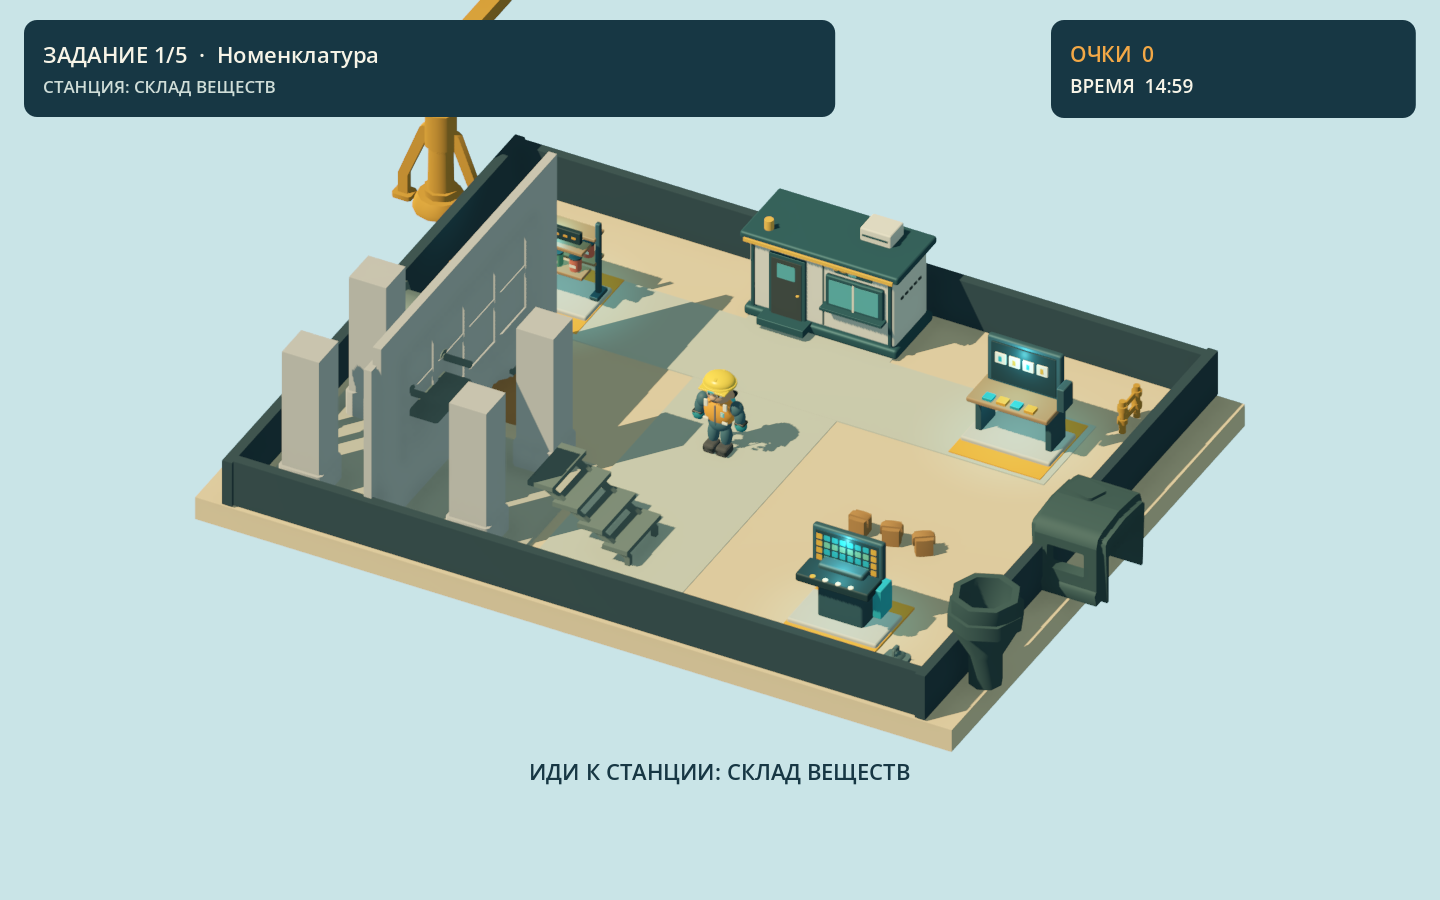
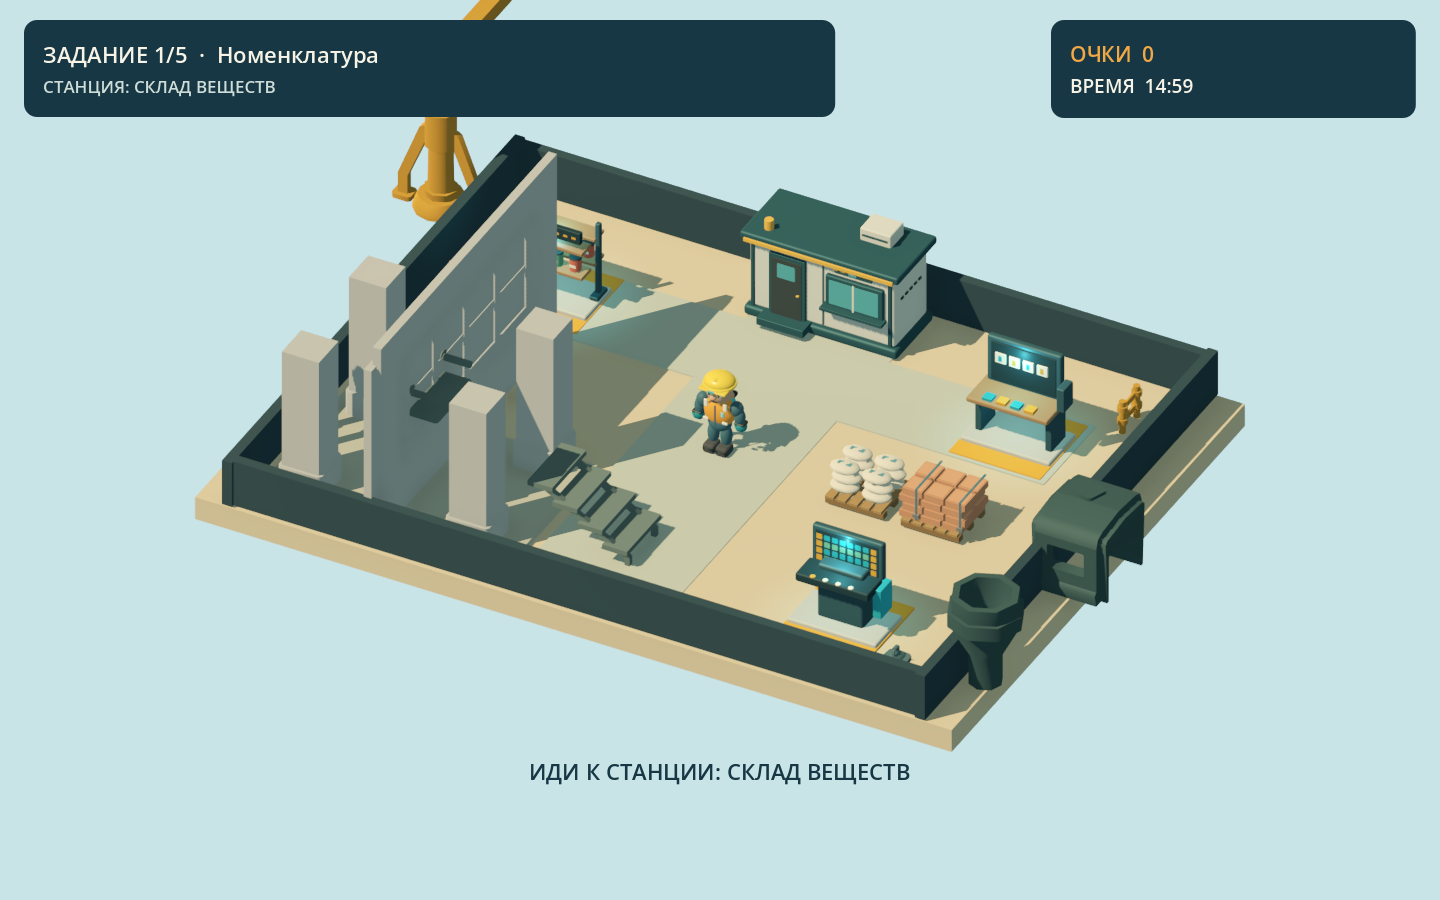
art: add Blender material storage cluster and route validation

Changed region(s): [[0.5625, 0.4978, 0.7188, 0.6222], [0.3438, 0.4044, 0.375, 0.4667], [0.2812, 0.3111, 0.3125, 0.3422]]

diff --git a/tools/blender/build_material_cache.py b/tools/blender/build_material_cache.py
@@ -1,0 +1,122 @@
+"""Create a compact palletized cement-and-brick storage assembly."""
+
+from pathlib import Path
+
+import bpy
+
+
+ROOT = Path(__file__).resolve().parents[2]
+OUTPUT = ROOT / "assets/models/environment"
+SOURCE = ROOT / "tools/blender/source"
+OUTPUT.mkdir(parents=True, exist_ok=True)
+SOURCE.mkdir(parents=True, exist_ok=True)
+
+bpy.ops.object.select_all(action="SELECT")
+bpy.ops.object.delete(use_global=False)
+
+
+def material(name, color, roughness=0.7, metallic=0.0):
+    result = bpy.data.materials.new(name)
+    result.diffuse_color = (*color, 1.0)
+    result.use_nodes = True
+    shader = result.node_tree.nodes.get("Principled BSDF")
+    shader.inputs["Base Color"].default_value = (*color, 1.0)
+    shader.inputs["Roughness"].default_value = roughness
+    shader.inputs["Metallic"].default_value = metallic
+    return result
+
+
+timber = material("sealed pallet timber", (0.42, 0.27, 0.13))
+timber_edge = material("pallet edge grain", (0.28, 0.18, 0.09))
+cement = material("cement paper sacks", (0.73, 0.72, 0.63), 0.88)
+cement_label = material("cement label ink", (0.11, 0.34, 0.39))
+brick = material("warm construction brick", (0.61, 0.29, 0.18), 0.82)
+brick_top = material("sunlit brick face", (0.72, 0.36, 0.22), 0.82)
+strap = material("blue retaining strap", (0.08, 0.28, 0.36), 0.42, 0.2)
+steel = material("galvanized tie hardware", (0.40, 0.48, 0.48), 0.38, 0.55)
+
+
+def box(name, location, dimensions, surface, bevel=0.02):
+    bpy.ops.mesh.primitive_cube_add(size=1, location=location)
+    obj = bpy.context.object
+    obj.name = name
+    obj.dimensions = dimensions
+    bpy.ops.object.transform_apply(location=False, rotation=False, scale=True)
+    obj.data.materials.append(surface)
+    if bevel:
+        modifier = obj.modifiers.new("rounded edge", "BEVEL")
+        modifier.width = min(bevel, min(dimensions) * 0.3)
+        modifier.segments = 3
+        obj.modifiers.new("weighted normals", "WEIGHTED_NORMAL")
+    return obj
+
+
+def bag(name, location, dimensions):
+    bpy.ops.mesh.primitive_uv_sphere_add(segments=20, ring_count=10, location=location)
+    obj = bpy.context.object
+    obj.name = name
+    obj.scale = (dimensions[0] / 2, dimensions[1] / 2, dimensions[2] / 2)
+    bpy.ops.object.transform_apply(location=False, rotation=False, scale=True)
+    obj.data.materials.append(cement)
+    for face in obj.data.polygons:
+        face.use_smooth = True
+    return obj
+
+
+def pallet(name, center_x):
+    for y in (-0.53, 0.0, 0.53):
+        box(name + " runner", (center_x, y, 0.12), (1.48, 0.20, 0.17), timber_edge, 0.025)
+    for x in (-0.6, -0.3, 0.0, 0.3, 0.6):
+        box(name + " top slat", (center_x + x, 0, 0.24), (0.23, 1.37, 0.09), timber, 0.018)
+
+
+pallet("cement pallet", -0.95)
+pallet("brick pallet", 0.95)
+
+# Three uneven courses of bags give a soft, authored silhouette.
+for layer, z in enumerate((0.41, 0.66, 0.91)):
+    for x in (-1.35, -0.55):
+        for y in (-0.30, 0.30):
+            offset = 0.045 if layer == 1 else 0.0
+            bag("sealed cement sack", (x + offset, y, z), (0.72, 0.52, 0.24))
+            if layer == 2:
+                box("printed cement band", (x + offset, y, z + 0.105), (0.35, 0.12, 0.012), cement_label, 0.004)
+
+# Bonded courses of bricks on the second pallet, with visible offset joints.
+for layer in range(4):
+    for column in range(3):
+        for row in range(2):
+            x = 0.39 + column * 0.54 + (0.08 if layer % 2 else 0.0)
+            y = -0.30 + row * 0.60
+            z = 0.34 + layer * 0.21
+            box("brick body", (x, y, z), (0.50, 0.53, 0.18), brick, 0.015)
+            box("brick top face", (x, y, z + 0.092), (0.43, 0.44, 0.014), brick_top, 0.005)
+
+# Two steel ratchet straps contain the brick load and add a strong color accent.
+for x in (0.60, 1.70):
+    box("vertical cargo strap", (x, -0.61, 0.72), (0.052, 0.018, 0.84), strap, 0.005)
+    box("strap over top", (x, 0, 1.15), (0.052, 1.23, 0.018), strap, 0.005)
+    box("ratchet buckle", (x, -0.635, 0.43), (0.16, 0.04, 0.09), steel, 0.008)
+
+for obj in bpy.data.objects:
+    if obj.type == "MESH":
+        for modifier in list(obj.modifiers):
+            bpy.context.view_layer.objects.active = obj
+            bpy.ops.object.modifier_apply(modifier=modifier.name)
+
+bpy.ops.wm.save_as_mainfile(filepath=str(SOURCE / "material_cache.blend"))
+
+# Preserve editable pieces in the source file and export one mesh per material.
+for surface in (timber, timber_edge, cement, cement_label, brick, brick_top, strap, steel):
+    pieces = [
+        obj for obj in bpy.data.objects
+        if obj.type == "MESH" and obj.data.materials and obj.data.materials[0] == surface
+    ]
+    bpy.ops.object.select_all(action="DESELECT")
+    for piece in pieces:
+        piece.select_set(True)
+    bpy.context.view_layer.objects.active = pieces[0]
+    bpy.ops.object.join()
+
+bpy.ops.export_scene.gltf(filepath=str(OUTPUT / "material_cache.glb"), export_format="GLB", export_apply=True)
+print("MATERIAL_CACHE_EXPORT", OUTPUT / "material_cache.glb")

diff --git a/PROGRESS.md b/PROGRESS.md
@@ -19,6 +19,7 @@ Phases 3, 7 and 8 — environment, UI, visual and audio quality pass for the fir
 - Compared the source Kenney GLB appearance in Godot, found that many props import white, and differentiated crane, steelwork, machinery and concrete with controlled runtime material families. Reviewed the new site capture.
 - Added simple collision proxies for the storage frame, pipe rack, stairs, safety marker and machinery dressing. A physics smoke test confirms the perimeter and storage frame block movement.
 - Authored a beveled, six-material site laboratory cabin in Blender with door, glazing, analyzer silhouettes, roof equipment and safety trim. Imported it as a rear landmark with a box collision proxy. Blender Agent Studio geometry inspection passed, and its six-view contact sheet and Godot site capture were reviewed.
+- Authored cement-sack and strapped-brick pallets in Blender. Exported eight material-grouped meshes with an editable `.blend` source; added a collision proxy and reviewed the six-view contact sheet and updated site capture. Walked from spawn to all three stations in a physics route smoke test.
 - Added a complete five-task round smoke test that checks station interactions, results and saved progress using an isolated test save.
 - Configured a universal macOS release preset and built `builds/macos/ChemSite.app`. Launched its arm64 release binary outside the editor and captured its menu.
 - Captured and visually reviewed the menu, site, station panel, formula builder and exported release menu under `artifacts/`.
@@ -29,15 +30,15 @@ Improve the site composition, lighting, visual feedback and UI so the native sli
 
 ## Next task
 
-Add a Blender-authored material-storage cluster and safety dressing, then capture the updated site and verify routes to all three stations.
+Add safety-area dressing and improve framing around the right-edge machinery. Then review character and station silhouettes from multiple camera angles.
 
 ## Last verification
 
-2026-09-24: Godot import passed; complete-round and collision smoke scripts passed with the cabin in place. Blender Agent Studio inspection found six materials, zero degenerate faces, zero zero-length edges and a passing hard gate. The six-view contact sheet and 1440×900 Godot site capture were reviewed. Earlier scene, gameplay, audio, settings, save and task-integrity checks passed on 2026-09-23.
+2026-09-24: Godot import, complete-round, collision and all-three-station walking-route smoke scripts passed with the material cache in place. Blender Agent Studio inspection found eight meshes, eight materials, 18,232 triangles, zero degenerate faces, zero zero-length edges and a passing hard gate. The six-view contact sheet and 1440×900 Godot site capture were reviewed. A macOS release export completed and its app binary launched headless. Earlier scene, gameplay, audio, settings, save and task-integrity checks passed on 2026-09-23.
 
 ## Known issues
 
-- The laboratory cabin improves the rear silhouette; material storage and safety areas still need more authored detail, and edge machinery still needs framing work.
+- The laboratory cabin and material cache improve the site silhouette; safety areas and edge machinery still need authored dressing and framing work.
 - Station animations, chemistry-specific VFX, footstep/machinery ambience and accessibility controls remain pending. Answer feedback and audio settings are present.
 - Character animation transitions work in the controller, but close-up deformation and timing need visual review.
 - The macOS release is unsigned and unnotarized; a complete five-task playtest in the exported app remains open. Windows export is pending.

diff --git a/docs/ASSET_LICENSES.md b/docs/ASSET_LICENSES.md
@@ -7,6 +7,7 @@
 | Construction chemist | ChemSite project-authored Blender script | Original project asset | `tools/blender/build_chemist.py` | `assets/models/character/chemist.glb` | Blender 5.2.2 export |
 | Three chemistry stations | ChemSite project-authored Blender script | Original project assets | `tools/blender/build_stations.py` | `assets/models/stations/` | Blender 5.2.2 export |
 | Site laboratory cabin | ChemSite project-authored Blender script | Original project asset | `tools/blender/build_site_cabin.py` | `assets/models/environment/site_cabin.glb` | Blender 5.2.2 export |
+| Cement and brick material cache | ChemSite project-authored Blender script | Original project asset | `tools/blender/build_material_cache.py` | `assets/models/environment/material_cache.glb` | Blender 5.2.2 export |
 | Menu illustration | ChemSite project-authored SVG | Original project asset | `assets/ui/menu_illustration.svg` | `assets/ui/menu_illustration.svg` | Native Godot UI |
 | Music track | ChemSite browser prototype source | Existing project asset | `legacy-web/public/assets/audio/lofi-1.mp3` | `assets/audio/lofi-1.mp3` | Copied for native use |
 | Interaction and answer cues | ChemSite project-authored synthesis | Original project assets | `tools/audio/render_cues.py` | `assets/audio/*.wav` | Generated WAV files |

diff --git a/docs/ASSET_SELECTION.md b/docs/ASSET_SELECTION.md
@@ -12,7 +12,8 @@ The Godot vertical slice starts from the CC0 Kenney Factory Kit 3.0 and Building
 | Project-authored `tools/blender/build_chemist.py` | `assets/models/character/chemist.glb` | Rigged player and nine actions | Multiview deformation and timing review |
 | Project-authored `tools/blender/build_stations.py` | `assets/models/stations/` | Storage, formula board and periodic terminal | Material, lighting and VFX refinement |
 | Project-authored `tools/blender/build_site_cabin.py` | `assets/models/environment/site_cabin.glb` | Rear laboratory landmark and active-site story | Final sign treatment and lighting review |
+| Project-authored `tools/blender/build_material_cache.py` | `assets/models/environment/material_cache.glb` | Palletized cement and brick storage | Eight material-grouped meshes; route and collision review complete |
 
 The browser's merged GLB libraries remain in `legacy-web/public/assets/models/` for reference. The source packs remain under `assets-source/` and are excluded from Godot import with `.gdignore`.
 
-The site cabin's standardized six-view review is saved at `docs/screenshots/site-cabin-contact-sheet.png`.
+Standardized six-view reviews are saved at `docs/screenshots/site-cabin-contact-sheet.png` and `docs/screenshots/material-cache-contact-sheet.png`.

diff --git a/docs/ART_DIRECTION.md b/docs/ART_DIRECTION.md
@@ -6,4 +6,4 @@ Use softened edges, readable silhouettes, deliberate material families, and comp
 
 The player reads as a young site chemist through an oversized helmet, safety vest, gloves, boots, and cyan chemistry pack. From the gameplay camera, the helmet and vest must remain distinct at normal zoom. Native Control UI uses large Russian labels and concise work orders.
 
-Current screenshot evidence: `docs/screenshots/vertical-slice-site.png`. The original site laboratory cabin adds a rear landmark and a stronger chemistry identity. The rigged character and station silhouettes are in place. Outstanding art work: material-storage density, PBR material refinement, multiview animation review, contact shadows, station VFX and ambience.
+Current screenshot evidence: `docs/screenshots/vertical-slice-site.png`. The original site laboratory cabin anchors the rear edge; the cement-and-brick pallet cluster gives the right-hand work area a construction identity while preserving the periodic terminal approach. The rigged character and station silhouettes are in place. Outstanding art work: safety-area dressing, PBR material refinement, multiview animation review, contact shadows, station VFX and ambience.

diff --git a/TODO.md b/TODO.md
@@ -13,7 +13,7 @@
 
 ## Current phase — Phase 3/7/8: vertical-slice quality pass
 
-- [ ] Author denser construction, material storage, chemistry and safety clusters with coherent landmarks, paths and collision proxies; the Blender laboratory cabin anchors the rear edge
+- [ ] Author denser construction, chemistry and safety clusters with coherent landmarks, paths and collision proxies; the Blender laboratory cabin and material cache now anchor the rear and right-hand work area
 - [ ] Refine station and character materials, scale, readability, rig deformation and animation timing from multiple camera angles
 - [ ] Add chemistry VFX and restrained environment motion, plus footstep and machinery ambience
 - [ ] Complete production HUD hierarchy, formula typography, accessibility, score/XP/combo presentation and Career/Practice menu modes; audio settings and keyboard focus are in place
